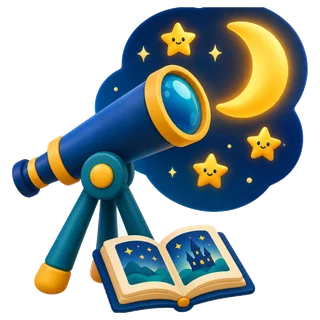
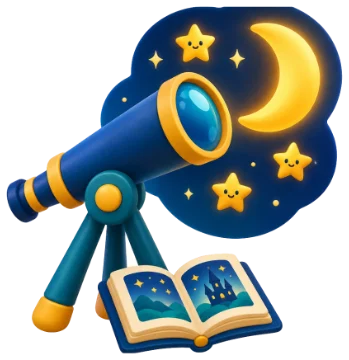
Levels 1-2 home: the school's storybook pictures on every place
The Beginner Reader Storybook set, prepared for the web (background removed
from the edges inward, trimmed, 360 px WebP of 18 to 30 KB in place of 1 to
5 MB PNGs):
- New: My letters (Alif-Ba), My books, My du'as, My garden, My stars, Games;
  Good Morals for the Reading Library and the globe for Knowing Allah.
- Sharper copies of Stories, Sunnah, Our Prophet, Stories of the Prophets
  and Qur'an.
- Each picture sits whole on a soft colour panel instead of being cropped
  into a circle; the three pictures that carry their name fill the tile and
  keep the label for screen readers.

diff --git a/src/styles/system.css b/src/styles/system.css
@@ -438,3 +438,13 @@ body[data-age="young"].cr .gm-how { background: #FFF6DE; }
   .kh-young .kh-place.bounce { animation: none; }
 }
 .kh .kh-young .kh-group-ar, .kh.kh-young .kh-group-ar { color: var(--leaf); } .kh.kh-young .kh-group-t { color: #3E443D; }
+
+/* young learners: the storybook pictures sit whole on a soft colour panel (not cropped in a circle) */
+.kh-sr { position: absolute !important; width: 1px; height: 1px; overflow: hidden; clip: rect(0 0 0 0); white-space: nowrap; }
+.kh-young .kh-place { justify-content: flex-start; }
+.kh-young .kh-ic { position: relative; overflow: hidden; flex: none; width: 100%; aspect-ratio: 4 / 3; height: auto; min-height: 0; border-radius: 18px; background: var(--c, #FFF6DE); box-shadow: inset 0 -4px 0 rgb(0 0 0 / .05); }
+.kh-young .kh-ic img { position: absolute; inset: 4%; width: 92%; height: 92%; object-fit: contain; filter: none; }
+.kh-young .kh-ic svg { width: 54%; height: 54%; }
+.kh-young .kh-place:has(.kh-sr) .kh-ic img { inset: 1%; width: 98%; height: 98%; }
+@media (max-width: 640px) { .kh-young .kh-ic { width: 100%; } }
+.kh-young .kh-place:has(.kh-sr) .kh-ic { flex: 1 1 auto; aspect-ratio: auto; min-height: 130px; }

diff --git a/docs/DESIGN_SYSTEM.md b/docs/DESIGN_SYSTEM.md
@@ -94,9 +94,15 @@ sound first, bouncy feedback and very little text. Ta'aleem uses its **own** art
 site's art, layout, characters or branding.
 
 - **Scene:** the school's Canva picture (`public/img/home/scene-wide.webp`, `scene-phone.webp`) under a soft light veil.
-- **Tiles:** white, 26 px corners, a 3 px white border and a soft drop shadow. Each has a big round picture
-  (the Canva pictures, or the colourful drawn icons in `ICONS` in `src/lib/activities.mjs`) on its own soft
-  bright colour (`color` in `showKids()`). One short label, 16 to 19 px, extra-bold.
+- **Tiles:** white, 26 px corners, a 3 px white border and a soft drop shadow. The top of each tile is a soft
+  colour panel (4:3, 18 px corners, the place's own `color` in `showKids()`) holding the whole picture, never cropped
+  into a circle. One short label below, 16 to 19 px, extra-bold.
+- **Pictures:** the school's storybook set in `public/img/home/` (the two children, the teddy, the gift, the telescope,
+  the mosque book, the Qur'an on its cushion and others), as transparent WebP about 360 px wide and 20 to 30 KB.
+  New pictures from the school are prepared the same way: background removed from the edges inward, trimmed,
+  resized and saved as WebP. Places without a picture use the colourful drawn icons in `ICONS`.
+  Pictures that already carry their name (My Books, My Du'as, My Garden) fill their tile, and the label is kept
+  for screen readers only.
 - **Colour:** leaf green `--leaf` (`#23774A`) for the main action and highlights, `--leaf-deep` for the header,
   sun yellow `--sun` (`#F6C64B`) for the hover border, and soft pastels behind the pictures. Text stays dark
   (`#0F2A22`) for contrast.
